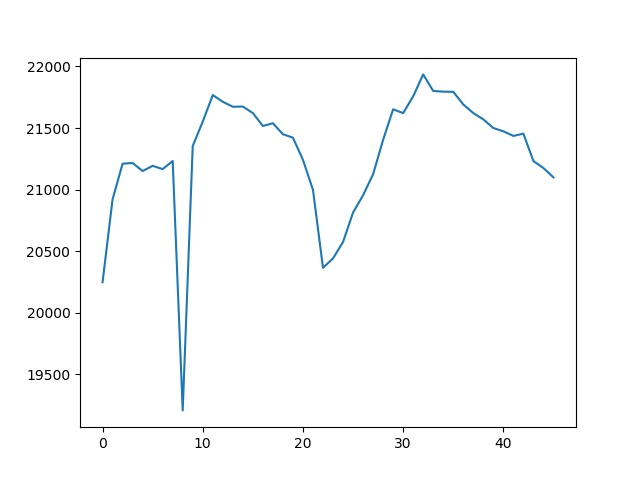
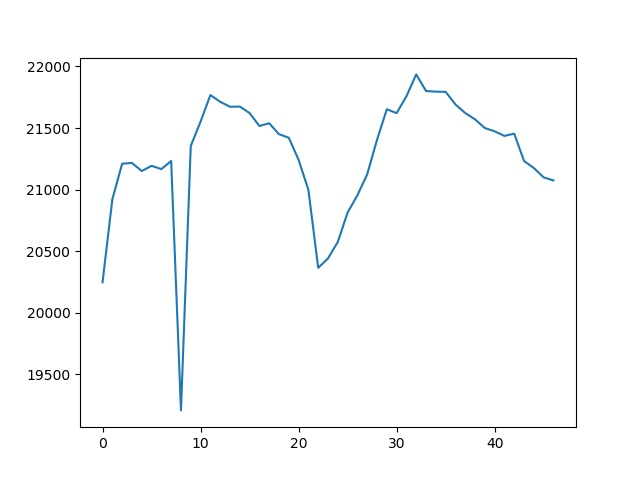
'auto'

diff --git a/README.md b/README.md
@@ -1,5 +1,5 @@
 Frizider live: 5
-21098.925 
+21073.975000000002 
 0
 Temperatura:
 
